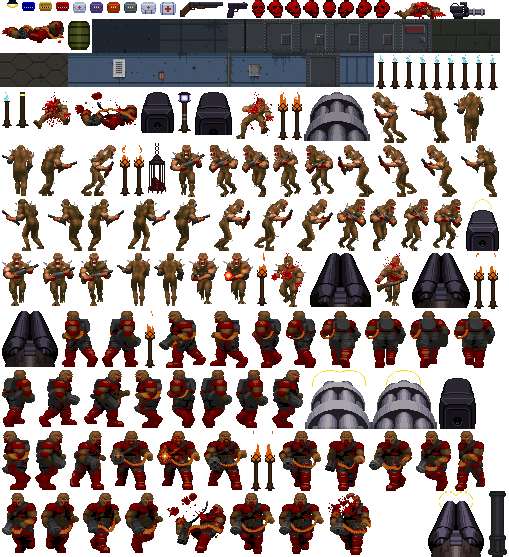
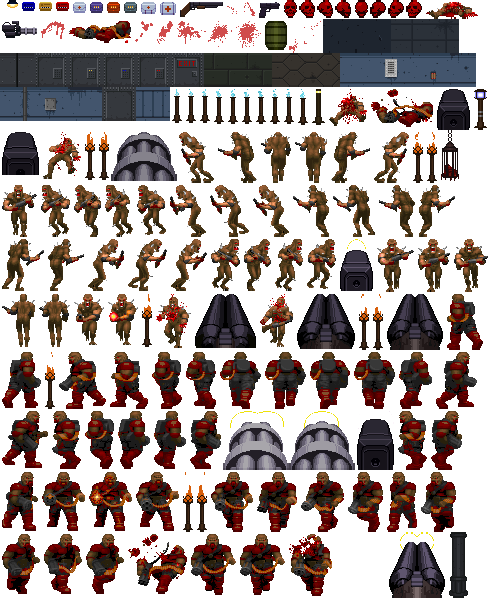
Added blood stains to walls

diff --git a/src/assets/scripts/components/Game/scenes/WorldScene/parsers/sprites.js b/src/assets/scripts/components/Game/scenes/WorldScene/parsers/sprites.js
@@ -1,13 +1,16 @@
 import {
   Rectangle,
   Texture,
+  RenderTexture,
   TextSprite,
   RectangleSprite,
   Sprite,
+  Container,
 } from 'game/core/graphics';
 import { BLACK, WHITE, RED } from 'game/constants/colors';
 import { TILE_SIZE, SCREEN } from 'game/constants/config';
 import { FONT_SIZES } from 'game/constants/fonts';
+import { EFFECT_TYPES } from 'game/constants/assets';
 import WallSprite from '../sprites/WallSprite';
 import EntitySprite from '../sprites/EntitySprite';
 import AnimatedEntitySprite from '../sprites/AnimatedEntitySprite';
@@ -37,10 +40,18 @@ const createWeaponSprite = ({ animations, textures, player }) => {
   return new WeaponSprite(textureCollection, player);
 };
 
-const createWallSprites = ({ world, frames, textures }) => {
+const createWallSprites = ({
+  world,
+  frames,
+  animations,
+  textures,
+  renderer,
+}) => {
   const wallImages = [];
   const wallTextures = {};
   const wallSprites = [];
+  const bloodAnimations = animations[EFFECT_TYPES.BLOOD];
+  const stainedContainer = new Container();
 
   world.grid.forEach((row) => {
     row.forEach((sector) => {
@@ -52,8 +63,8 @@ const createWallSprites = ({ world, frames, textures }) => {
       } = sector;
 
       [front, left, back, right].forEach((side) => {
-        if (side && !wallImages.includes(side)) {
-          wallImages.push(side);
+        if (side && !wallImages.includes(side.texture)) {
+          wallImages.push(side.texture);
         }
       });
     });
@@ -65,9 +76,24 @@ const createWallSprites = ({ world, frames, textures }) => {
     const { frame } = frames[image];
     const texture = textures[image];
 
+    const stainedTextures = bloodAnimations.map((animation) => {
+      const stainedTexture = RenderTexture.create(TILE_SIZE, TILE_SIZE);
+      const bloodTexture = textures[animation];
+      stainedContainer.removeChildren();
+      stainedContainer.addChild(new Sprite(texture));
+      stainedContainer.addChild(new Sprite(bloodTexture));
+      renderer.render(stainedContainer, stainedTexture);
+      return stainedTexture;
+    });
+
     for (let i = 0; i < frame.w; i += 1) {
-      const slice = new Rectangle(frame.x + i, frame.y, 1, frame.h);
-      wallTextures[image].push(new Texture(texture, slice));
+      const stainedSlice = new Rectangle(i, 0, 1, frame.h);
+      const clearSlice = new Rectangle(frame.x + i, frame.y, 1, frame.h);
+
+      wallTextures[image].push([
+        new Texture(texture, clearSlice),
+        ...stainedTextures.map(stainedTexture => new Texture(stainedTexture, stainedSlice)),
+      ]);
     }
   });
 
@@ -89,8 +115,8 @@ const createBackgroundSprites = ({ world, frames, textures }) => {
       const { top, bottom } = sector;
 
       [top, bottom].forEach((side) => {
-        if (side && !backgroundImages.includes(side)) {
-          backgroundImages.push(side);
+        if (side && !backgroundImages.includes(side.texture)) {
+          backgroundImages.push(side.texture);
         }
       });
     });
@@ -268,8 +294,8 @@ const createHudSprites = (world, textures) => {
   };
 };
 
-const createWorldSprites = (world, resources) => {
-  const { textures, data } = resources;
+const createWorldSprites = ({ world, graphics, renderer }) => {
+  const { textures, data } = graphics;
   const { frames, animations } = data;
   const { player } = world;
 
@@ -286,9 +312,11 @@ const createWorldSprites = (world, resources) => {
   });
 
   const walls = createWallSprites({
+    animations,
     frames,
     textures,
     world,
+    renderer,
   });
 
   const background = createBackgroundSprites({
@@ -314,12 +342,18 @@ const createWorldSprites = (world, resources) => {
 
 /**
  * Creates the sprites for the scene.
- * @param  {World}  world     The world.
- * @param  {Object} resources The resources.
- * @param  {Object} text      The text.
- * @return {Object            The sprites for the scene.
+ * @param  {World}  options.world     The world.
+ * @param  {Object} options.graphics  The graphics.
+ * @param  {Object} options.text      The text.
+ * @param  {Object} options.renderer  The text.
+ * @return {Object}                   The sprites for the scene.
  */
-export const createSprites = (world, resources, text) => ({
-  world: createWorldSprites(world, resources),
+export const createSprites = ({
+  world,
+  graphics,
+  text,
+  renderer,
+}) => ({
+  world: createWorldSprites({ world, graphics, renderer }),
   review: createReviewSprites(text.review),
 });

diff --git a/src/assets/scripts/components/Game/scenes/WorldScene/parsers/bodies.js b/src/assets/scripts/components/Game/scenes/WorldScene/parsers/bodies.js
@@ -1,4 +1,4 @@
-import { ITEM_TYPES, ENEMY_TYPES } from 'game/constants/assets';
+import { ITEM_TYPES, ENEMY_TYPES, EFFECT_TYPES } from 'game/constants/assets';
 import { TILE_SIZE } from 'game/constants/config';
 import Sector from '../entities/Sector';
 import World from '../entities/World';
@@ -26,7 +26,17 @@ const ENEMIES = {
   [ENEMY_TYPES.MANCUBUS]: Mancubus,
 };
 
-const createSector = (sector, props) => {
+const createSector = ({ sector, props, graphics }) => {
+  const { animations } = graphics.data;
+  const bloodAnimations = animations[EFFECT_TYPES.BLOOD];
+  const sides = Object.keys(sector.sides).reduce((memo, key) => ({
+    ...memo,
+    [key]: {
+      texture: sector.sides[key],
+      stain: Math.floor(Math.random() * bloodAnimations.length) + 1,
+    },
+  }), {});
+
   if (sector.door) {
     return new Door({
       x: (TILE_SIZE * sector.x) + (TILE_SIZE / 2),
@@ -36,7 +46,7 @@ const createSector = (sector, props) => {
       length: TILE_SIZE,
       axis: sector.axis,
       blocking: sector.blocking,
-      sides: sector.sides,
+      sides,
       key: sector.key,
       ...props.door,
     });
@@ -46,7 +56,7 @@ const createSector = (sector, props) => {
     x: (TILE_SIZE * sector.x) + (TILE_SIZE / 2),
     y: (TILE_SIZE * sector.y) + (TILE_SIZE / 2),
     blocking: sector.blocking,
-    sides: sector.sides,
+    sides,
     width: TILE_SIZE,
     height: sector.blocking ? TILE_SIZE : 0,
     length: TILE_SIZE,
@@ -58,7 +68,7 @@ const createSector = (sector, props) => {
  * @param  {Object} data   The world data.
  * @return {World}         The created world.
  */
-export const createWorld = (data) => {
+export const createWorld = ({ data, graphics }) => {
   const { entrance, exit, props } = data;
   const { visibility, brightness } = props.world;
 
@@ -66,7 +76,7 @@ export const createWorld = (data) => {
     ...rows,
     row.reduce((sectors, sector) => ([
       ...sectors,
-      createSector(sector, props),
+      createSector({ sector, props, graphics }),
     ]), []),
   ]), []);
 

diff --git a/src/assets/scripts/components/Game/scenes/WorldScene/containers/WorldContainer/index.js b/src/assets/scripts/components/Game/scenes/WorldScene/containers/WorldContainer/index.js
@@ -118,7 +118,7 @@ class WorldContainer extends Container {
       sprite.height = spriteHeight;
       sprite.y = spriteY;
       sprite.zOrder = distance;
-      sprite.changeTexture(side, sliceY);
+      sprite.changeTexture(side.texture, sliceY, side.stain);
       sprite.tint = this.calculateTint(distance, isHorizontal);
 
       // Update background sprites
@@ -141,7 +141,7 @@ class WorldContainer extends Container {
           gridY = Math.floor(mapY / TILE_SIZE);
           gridY = (gridY > maxSectorY) ? maxSectorY : gridY;
           gridY = (gridY < 0) ? 0 : gridY;
-          sprite.changeTexture(this.world.getSector(gridX, gridY).top, pixelX, pixelY);
+          sprite.changeTexture(this.world.getSector(gridX, gridY).top.texture, pixelX, pixelY);
           sprite.tint = this.calculateTint(actualDistance);
         }
       }
@@ -162,7 +162,7 @@ class WorldContainer extends Container {
           gridY = Math.floor(mapY / TILE_SIZE);
           gridY = (gridY > maxSectorY) ? maxSectorY : gridY;
           gridY = (gridY < 0) ? 0 : gridY;
-          sprite.changeTexture(this.world.getSector(gridX, gridY).bottom, pixelX, pixelY);
+          sprite.changeTexture(this.world.getSector(gridX, gridY).bottom.texture, pixelX, pixelY);
           sprite.tint = this.calculateTint(actualDistance);
         }
       }

diff --git a/src/assets/scripts/components/Game/scenes/WorldScene/sprites/WallSprite/index.js b/src/assets/scripts/components/Game/scenes/WorldScene/sprites/WallSprite/index.js
@@ -1,5 +1,10 @@
 import { Sprite } from 'game/core/graphics';
 
+const TYPES = {
+  CLEAR: 'clear',
+  STAINED: 'stained',
+};
+
 /**
  * Class representing an WallSprite.
  * @extends {Sprite}
@@ -13,6 +18,7 @@ class WallSprite extends Sprite {
   constructor(textures, index) {
     super();
     this.x = index;
+
     this.textures = textures;
     this.zOrder = Number.MAX_VALUE;
   }
@@ -22,8 +28,9 @@ class WallSprite extends Sprite {
    * @param  {String}  image  The name of the image.
    * @param  {Number}  offset The index of the slice.
    */
-  changeTexture(image, offset) {
-    this.texture = this.textures[image][offset];
+  changeTexture(image, offset, type) {
+    // const type = stained ? TYPES.STAINED : TYPES.CLEAR;
+    this.texture = this.textures[image][offset][type];
   }
 }
 

diff --git a/src/assets/scripts/components/Game/index.js b/src/assets/scripts/components/Game/index.js
@@ -92,7 +92,7 @@ class Game extends Application {
     this.ticker.start();
     this.sound.add(GAME_SOUNDS.NAME, sound);
 
-    this.showTitleScene();
+    this.showWorldScene();
 
     this.emit(EVENTS.STARTED);
   }
@@ -157,7 +157,7 @@ class Game extends Application {
     * @param  {Number} options.index The scene index.
     * @param  {Object} options.props Optional extra props.
     */
-  async show({ type, index = 0, startingProps = {} } = {}) {
+  async show({ type, index = 1, startingProps = {} } = {}) {
     const SceneType = SCENES[type];
 
     if (this.scene) {

diff --git a/src/assets/scripts/components/Game/scenes/WorldScene/index.js b/src/assets/scripts/components/Game/scenes/WorldScene/index.js
@@ -59,6 +59,8 @@ class WorldScene extends Scene {
    * @param  {Object} options.data     The scene data.
    */
   create({ graphics, data }) {
+    const { renderer } = this.game;
+
     const text = {
       review: {
         title: translate('world.title', {
@@ -71,6 +73,7 @@ class WorldScene extends Scene {
     };
 
     const { world, sprites } = parse({
+      renderer,
       graphics,
       data,
       text,

diff --git a/src/assets/scripts/components/Game/scenes/WorldScene/parsers/index.js b/src/assets/scripts/components/Game/scenes/WorldScene/parsers/index.js
@@ -12,9 +12,19 @@ export const parse = ({
   graphics,
   data,
   text,
+  renderer,
 }) => {
-  const world = createWorld(data);
-  const sprites = createSprites(world, graphics, text);
+  const world = createWorld({
+    data,
+    graphics,
+  });
+
+  const sprites = createSprites({
+    world,
+    graphics,
+    text,
+    renderer,
+  });
 
   return {
     world,

diff --git a/src/assets/scripts/components/Game/core/graphics/index.js b/src/assets/scripts/components/Game/core/graphics/index.js
@@ -8,6 +8,7 @@ import {
   SCALE_MODES,
   settings,
   Texture,
+  RenderTexture,
 } from 'pixi.js';
 import { PixelateFilter } from '@pixi/filter-pixelate';
 import TextSprite from './components/TextSprite';
@@ -84,4 +85,8 @@ export {
    * The texture component.
    */
   Texture,
+  /**
+   * The render texture component.
+   */
+  RenderTexture,
 };

diff --git a/src/assets/scripts/components/Game/scenes/Scene/index.js b/src/assets/scripts/components/Game/scenes/Scene/index.js
@@ -36,7 +36,7 @@ class Scene extends Container {
    * @param  {String} options.game    The game running the scene.
    */
   constructor({
-    index = 0,
+    index,
     type,
     game,
   }) {

diff --git a/src/assets/scripts/components/Game/constants/assets.js b/src/assets/scripts/components/Game/constants/assets.js
@@ -108,3 +108,11 @@ export const KEY_COLORS = {
   BLUE: 'blue',
   RED: 'red',
 };
+
+/**
+ * The effect types.
+ * @type {Object}
+ */
+export const EFFECT_TYPES = {
+  BLOOD: 'blood',
+};
